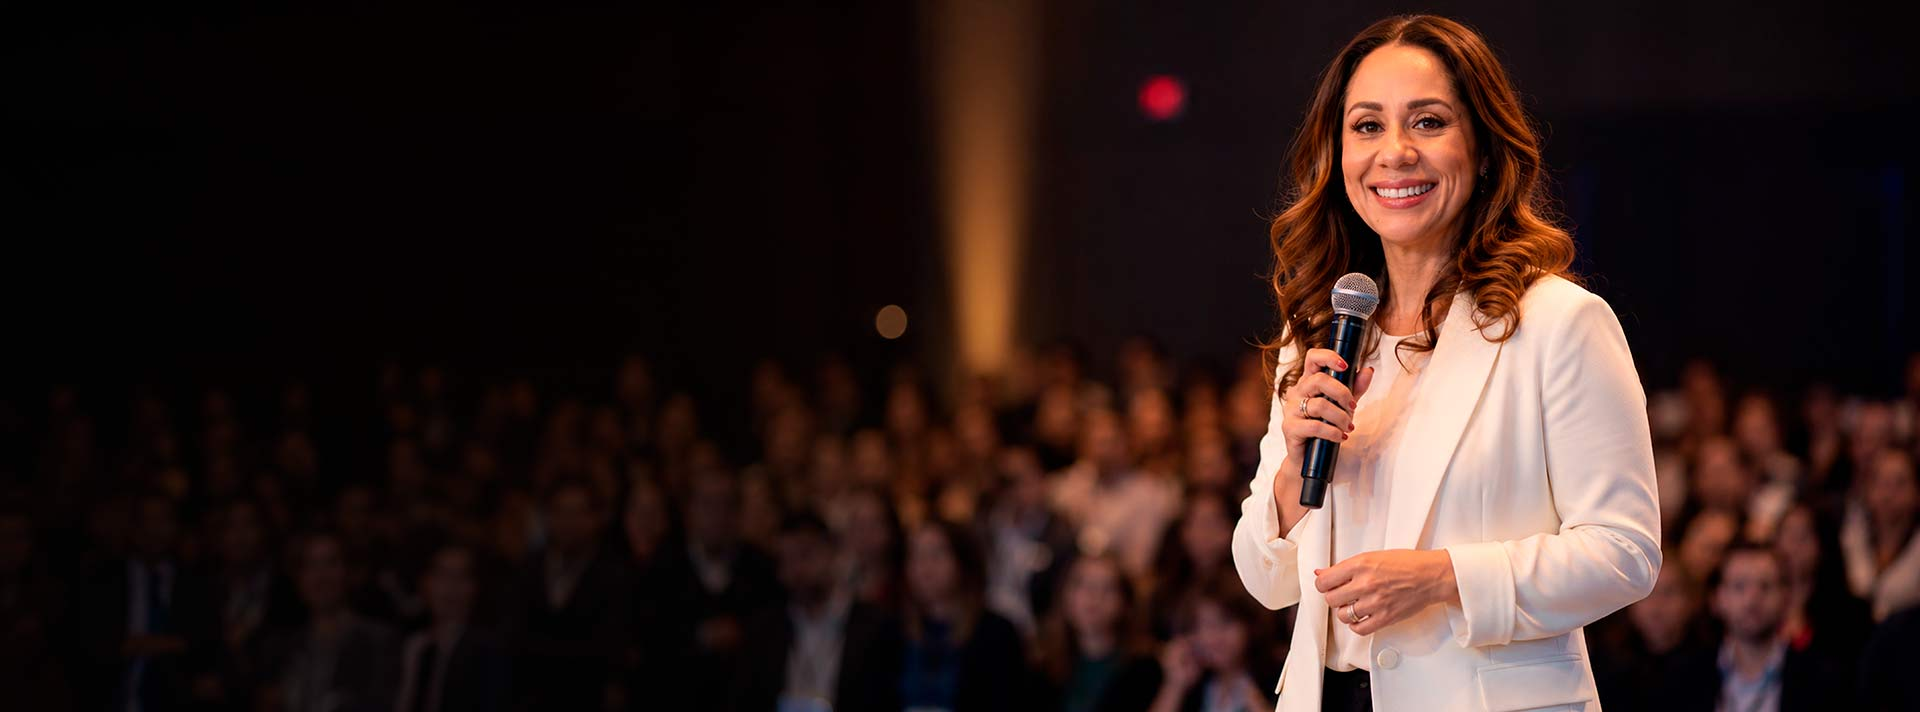
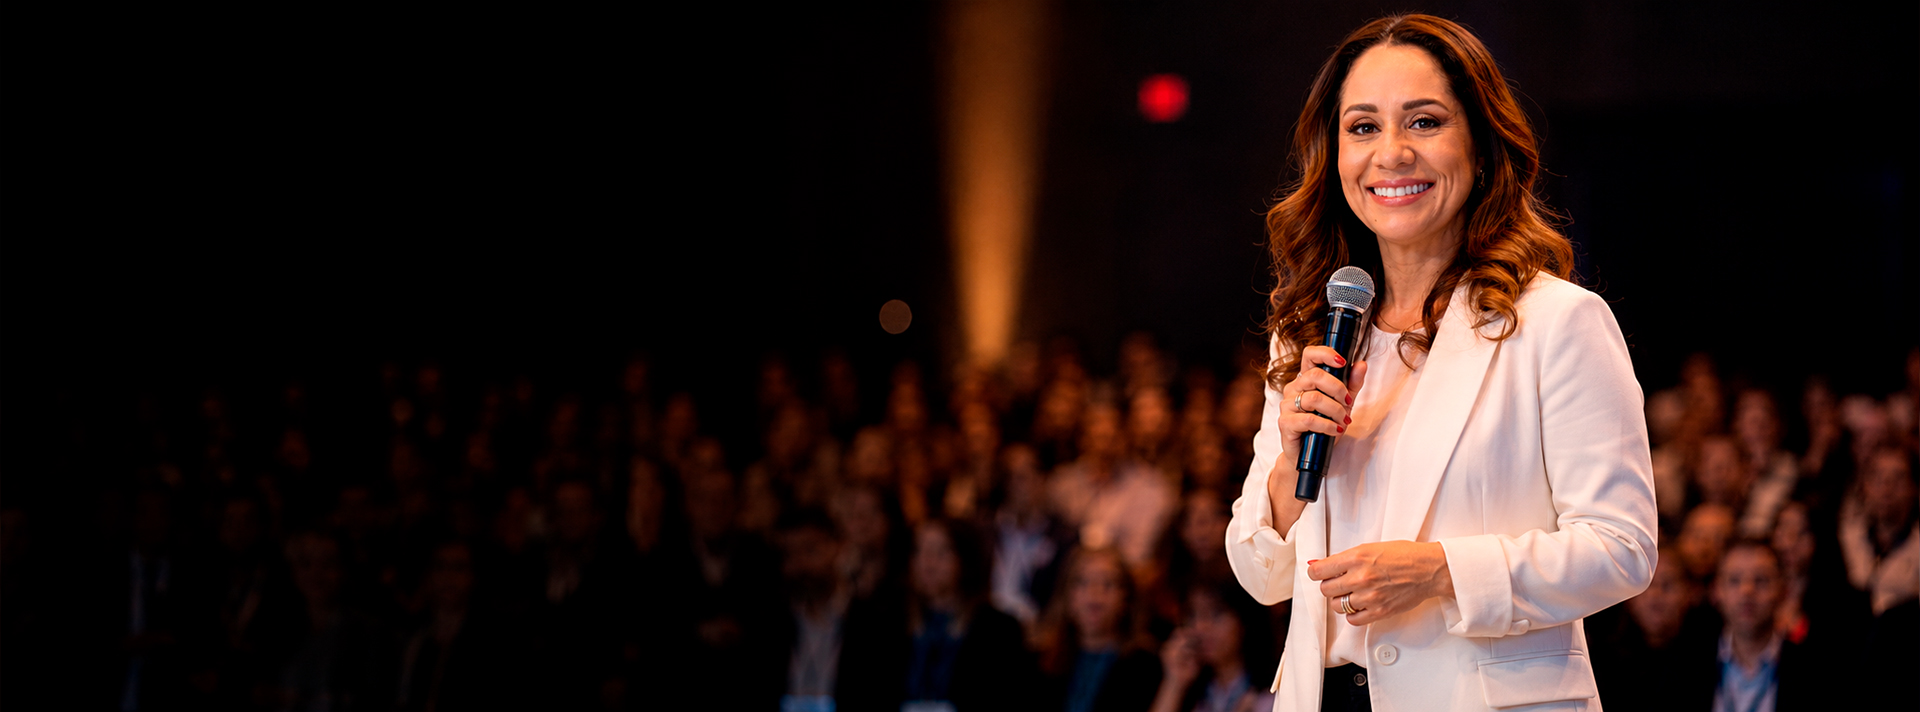
vendas2: atualiza imagens hero desktop e mobile

diff --git a/vendas2/index.html b/vendas2/index.html
@@ -796,7 +796,7 @@
       </p>
     </div>
     <div class="hero-mobile-photo-wrap">
-      <img src="assets/hero-lilian-mobile.jpg" alt="Lilian Cardoso" class="hero-mobile-bg">
+      <img src="assets/hero-mobile.jpg" alt="Lilian Cardoso" class="hero-mobile-bg">
       <a id="hero-cta-m" class="btn btn-purple hero-mobile-cta" href="#ingressos">Quero garantir minha vaga</a>
     </div>
   </div>